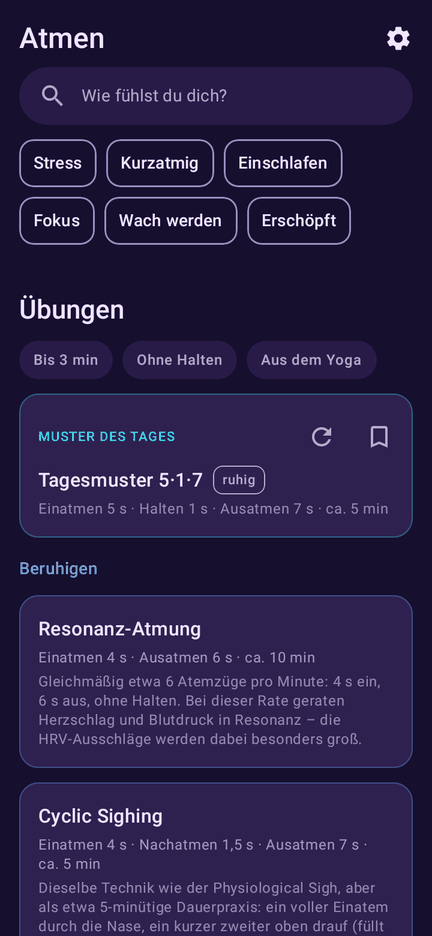
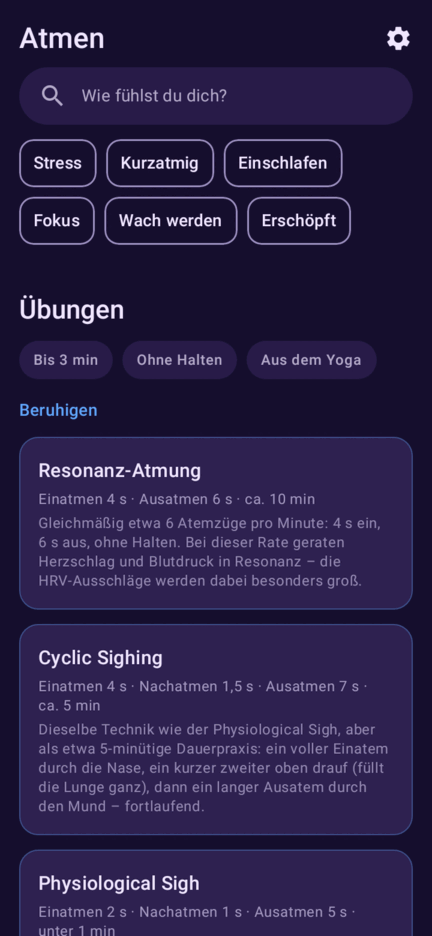
docs: README mit neuen Bildern und den Funktionen aus 2.8.0
Die README-Bilder neu aus den Roborazzi-Aufnahmen (kompakt360/fs100) nach
Release-Checkliste Schritt 2: Im Atmen-Tab steht das Tagesmuster jetzt
hinter „Beruhigen“, die Sitzung beginnt ohne Sprung des Kreises. Die kurze
Funktionsliste nennt Schnellstart über das App-Symbol, den Weg zur zuletzt
geübten Übung und die abschaltbare Serie; der Alternativtext des Bilds
beschreibt nur, was sicher im Ausschnitt steht.

Claude-Session: https://claude.ai/code/session_01H2VGhxbJTSRd9dYHL6wNME

Changed region(s): [[0.0301, 0.4028, 0.963, 1.0]]

diff --git a/README.md b/README.md
@@ -5,7 +5,7 @@ Android-App für Atemübungen und stille Meditation. Ein mitatmender Kreis, Tön
 Ohne Konto, ohne Werbung, ohne Tracking; offline bis auf das optionale Laden einer Sprachstimme. Atemkraft ist eine Wellness-App und kein Medizinprodukt; sie ersetzt keinen Rat von Ärztin, Arzt oder anderem Fachpersonal.
 
 <p>
-  <img src="docs/screenshot-atmen.png" width="200" alt="Tab Atmen: Suche „Wie fühlst du dich?“ mit Anlässen als Chips, Übungen mit Filtern, Muster des Tages und Liste der Atemübungen nach Bereichen">
+  <img src="docs/screenshot-atmen.png" width="200" alt="Tab Atmen: Suche „Wie fühlst du dich?“ mit Anlässen als Chips, darunter die Übungen mit Filtern, nach Bereichen gruppiert">
   <img src="docs/screenshot-sitzung.png" width="200" alt="Laufende Sitzung: Atemkreis mit „Einatmen“, Sekunden und Fortschrittsbogen">
 </p>
 
@@ -14,12 +14,12 @@ Ohne Konto, ohne Werbung, ohne Tracking; offline bis auf das optionale Laden ein
 Beschrieben ist der Stand von `main`; die veröffentlichte Version kann Einzelnes davon noch nicht haben.
 
 - **Atmen:** 17 Übungen in vier Bereichen (Beruhigen, Aktivieren, Ausgleichen, Atem schulen), je mit Anleitung, Studienlage, Sicherheitshinweisen und Quellen. Zeiten lassen sich pro Übung anpassen. Darüber „Wie fühlst du dich?“: Anlässe wie „Einschlafen“ zum Antippen und eine Suche nach deinem Befinden.
-- **Sitzung:** Der Kreis wächst beim Einatmen und schrumpft beim Ausatmen, dazu Töne und Vibration. Am Ende eine kurze Bilanz.
+- **Sitzung:** Der Kreis wächst beim Einatmen und schrumpft beim Ausatmen, dazu Töne und Vibration. Am Ende eine kurze Bilanz. Schnellstart über langes Drücken auf das App-Symbol.
 - **Muster des Tages:** jeden Tag ein neues, ruhiges oder sanft aktivierendes Muster zum Ausprobieren und Speichern.
-- **Eigene Kreationen:** einen Atemzug frei aus Einatmen, Halten und Ausatmen zusammenstellen, mit Atemkurve, Startpunkten und Vorschau, gesammelt im Tab „Eigene“, zusammen mit den Übungen, die du mit „Tut mir gut“ markiert hast, und dem Verlauf deiner Sitzungen.
+- **Eigene Kreationen:** einen Atemzug frei aus Einatmen, Halten und Ausatmen zusammenstellen, mit Atemkurve, Startpunkten und Vorschau, gesammelt im Tab „Eigene“, zusammen mit den Übungen, die du mit „Tut mir gut“ markiert hast, und dem Verlauf deiner Sitzungen samt Weg zur zuletzt geübten Übung.
 - **Meditation:** Timer mit Zeitring, Gong und optional gesprochener Anleitung; läuft bei ausgeschaltetem Bildschirm weiter. Auf Wunsch geht eine Atemübung nahtlos in die stille Meditation über.
 - **Lernen:** Atemlehre (etwa die fünf vāyus), Pranayama mit Grundlagen und Techniken wie Ujjayi, jeweils mit Übung zum Ausprobieren, Begriffe erklärt und Programme wie Buteyko und Nasenatmung zum Nachlesen.
-- **Logbuch und Export:** abgeschlossene Sitzungen, gespeicherte Muster als Datei sichern.
+- **Logbuch und Export:** abgeschlossene Sitzungen (Tage in Folge abschaltbar), gespeicherte Muster als Datei sichern.
 
 ## Installieren
 
